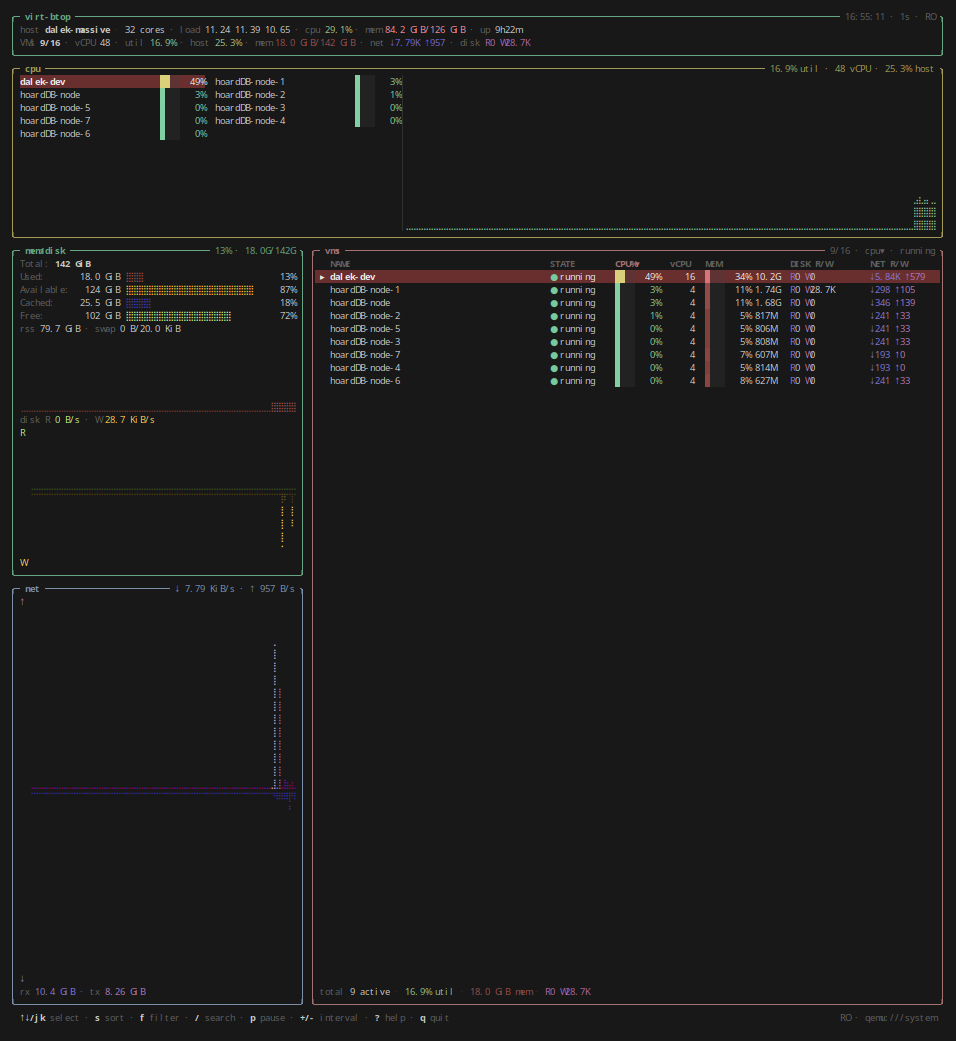
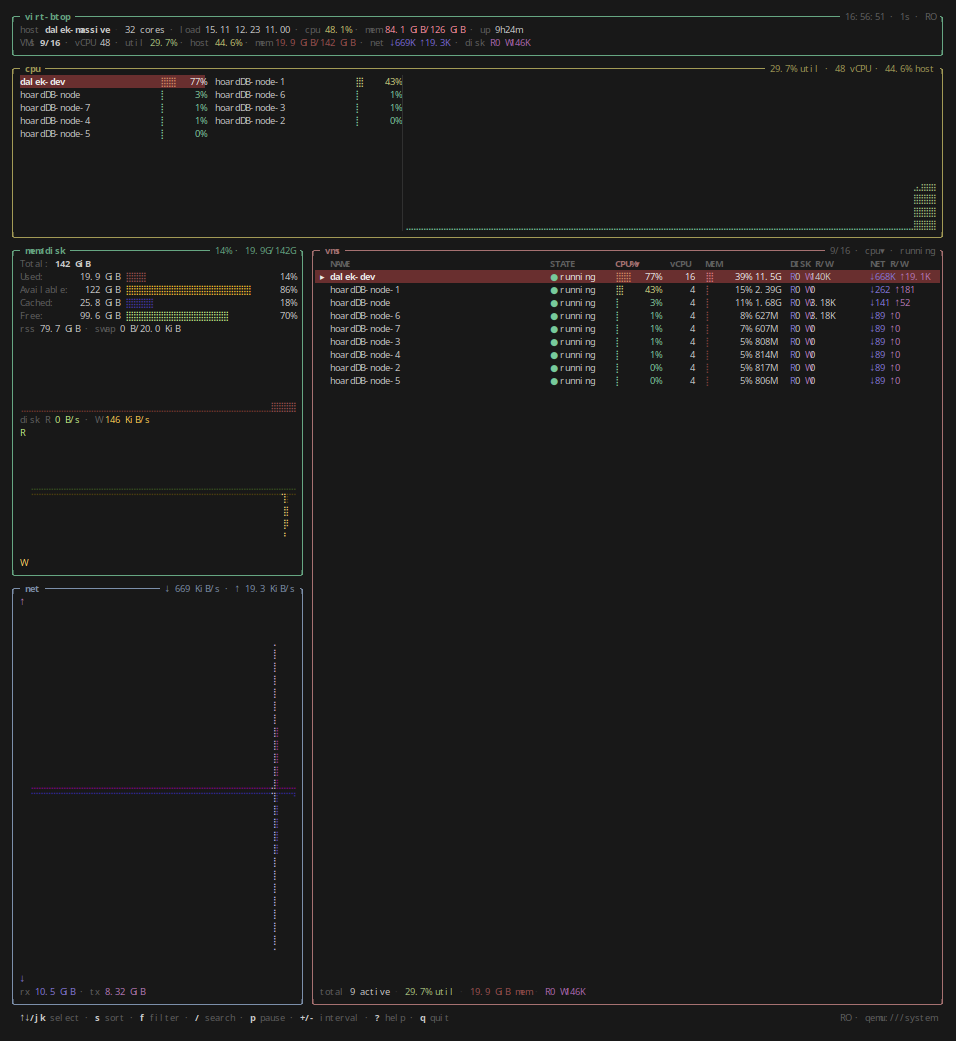
bars: braille dots for CPU and VM list meters too

diff --git a/internal/tui/render.go b/internal/tui/render.go
@@ -397,37 +397,6 @@ func (m *Model) renderDisk(s *Screen, x, y, w, h int) {
 		func(f float64) termenv.Color { return m.pal.Avail.At(f) })
 }
 
-// drawBrailleBar draws a horizontal filled bar out of braille dots (full cells
-// plus a partial end cell), in the same dot style as the graphs.
-func drawBrailleBar(s *Screen, x, y, w int, frac float64, grad Gradient, pal *Palette) {
-	if w <= 0 {
-		return
-	}
-	frac = clamp(frac, 0, 1)
-	dots := int(math.Round(frac * float64(w*2)))
-	if dots == 0 && frac > 0 {
-		dots = 1
-	}
-	color := grad.At(frac)
-	// Left pair of dots is 0x47 (rows 1-3 left column + row 4 left), right pair
-	// is 0xB8; a single dot is the left column top three rows.
-	var leftHalf, rightHalf uint8 = 0x01 | 0x02 | 0x04 | 0x40, 0x08 | 0x10 | 0x20 | 0x80
-	for i := 0; i < w; i++ {
-		var mask uint8
-		switch {
-		case dots >= (i+1)*2:
-			mask = leftHalf | rightHalf
-		case dots == i*2+1:
-			mask = leftHalf
-		}
-		if mask == 0 {
-			s.Set(x+i, y, 0x2800, Style{FG: pal.MeterBG})
-			continue
-		}
-		s.Set(x+i, y, 0x2800+rune(mask), Style{FG: color})
-	}
-}
-
 // drawMemMeter draws "Label:  value  ⣿⣿⣿⣀⣀⣀  nn%" on one row: a braille
 // bar so it reads like the graphs rather than a solid block.
 func (m *Model) drawMemMeter(s *Screen, x, y, w int, label string, kib, total uint64, grad Gradient) {
@@ -445,7 +414,7 @@ func (m *Model) drawMemMeter(s *Screen, x, y, w int, label string, kib, total ui
 	barX := x + labelW + valW + 1
 	barW := w - (labelW + valW + 1) - pctW - 1
 	if barW >= 3 {
-		drawBrailleBar(s, barX, y, barW, frac, grad, m.pal)
+		drawBar(s, barX, y, barW, frac, grad, nil, m.pal)
 		putSpans(s, barX+barW+1, y, pctW, []span{{fmt.Sprintf("%3.0f%%", frac*100), Style{FG: m.pal.MainFG}}}, nil)
 	}
 }
@@ -496,24 +465,32 @@ func (m *Model) renderNet(s *Screen, l Layout) {
 	}
 }
 
+// drawBar draws a horizontal bar out of braille dots (2 dots per cell, full
+// cells plus a partial end cell) so meters match the style of the graphs.
 func drawBar(s *Screen, x, y, w int, frac float64, grad Gradient, bg termenv.Color, pal *Palette) {
 	if w <= 0 {
 		return
 	}
 	frac = clamp(frac, 0, 1)
-	filled := int(frac*float64(w) + 0.5)
-	if filled == 0 && frac > 0 {
-		filled = 1
+	dots := int(math.Round(frac * float64(w*2)))
+	if dots == 0 && frac > 0 {
+		dots = 1
 	}
 	color := grad.At(frac)
+	const leftDots, rightDots uint8 = 0x01 | 0x02 | 0x04 | 0x40, 0x08 | 0x10 | 0x20 | 0x80
 	for i := 0; i < w; i++ {
 		st := Style{FG: color, BG: bg}
-		ch := '█'
-		if i >= filled {
-			ch = '░'
+		var mask uint8
+		switch {
+		case dots >= (i+1)*2:
+			mask = leftDots | rightDots
+		case dots == i*2+1:
+			mask = leftDots
+		}
+		if mask == 0 {
 			st.FG = pal.MeterBG
 		}
-		s.Set(x+i, y, ch, st)
+		s.Set(x+i, y, 0x2800+rune(mask), st)
 	}
 }
 

diff --git a/internal/tui/screen_test.go b/internal/tui/screen_test.go
@@ -89,10 +89,10 @@ func TestDrawBraille(t *testing.T) {
 	}
 }
 
-func TestDrawBrailleBar(t *testing.T) {
+func TestDrawBar(t *testing.T) {
 	pal := newPalette(termenv.Ascii)
 	s := NewScreen(10, 1, pal)
-	drawBrailleBar(s, 0, 0, 10, 0.5, pal.Mem, pal)
+	drawBar(s, 0, 0, 10, 0.5, pal.Mem, nil, pal)
 	// Half full: 5 full cells, 5 empty, still braille (not block) glyphs.
 	for i := 0; i < 5; i++ {
 		if c := s.cells[i]; c.R != 0x28FF {
@@ -106,7 +106,7 @@ func TestDrawBrailleBar(t *testing.T) {
 	}
 	// A single sub-cell of progress still shows a dot.
 	s2 := NewScreen(10, 1, pal)
-	drawBrailleBar(s2, 0, 0, 10, 0.01, pal.Mem, pal)
+	drawBar(s2, 0, 0, 10, 0.01, pal.Mem, nil, pal)
 	if c := s2.cells[0]; c.R == 0x2800 {
 		t.Fatal("tiny fraction should still draw a dot")
 	}
